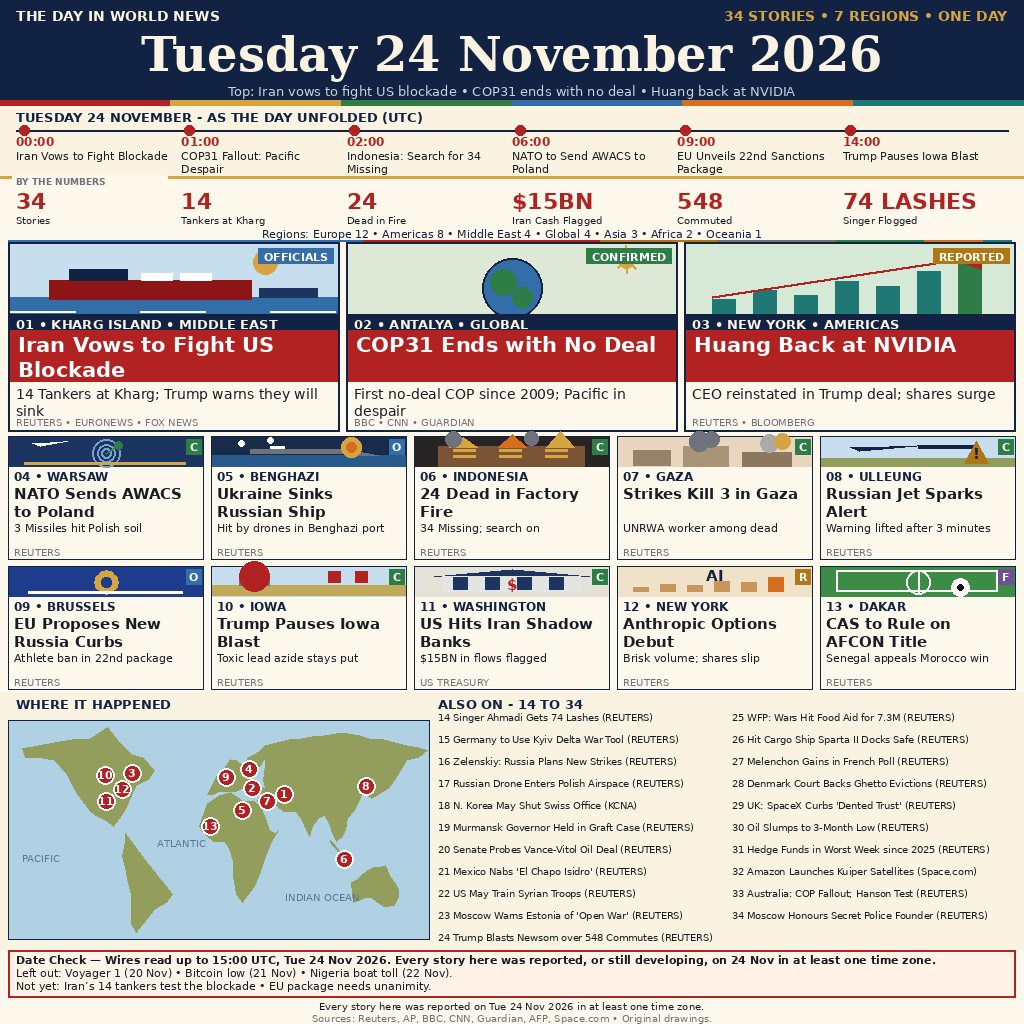
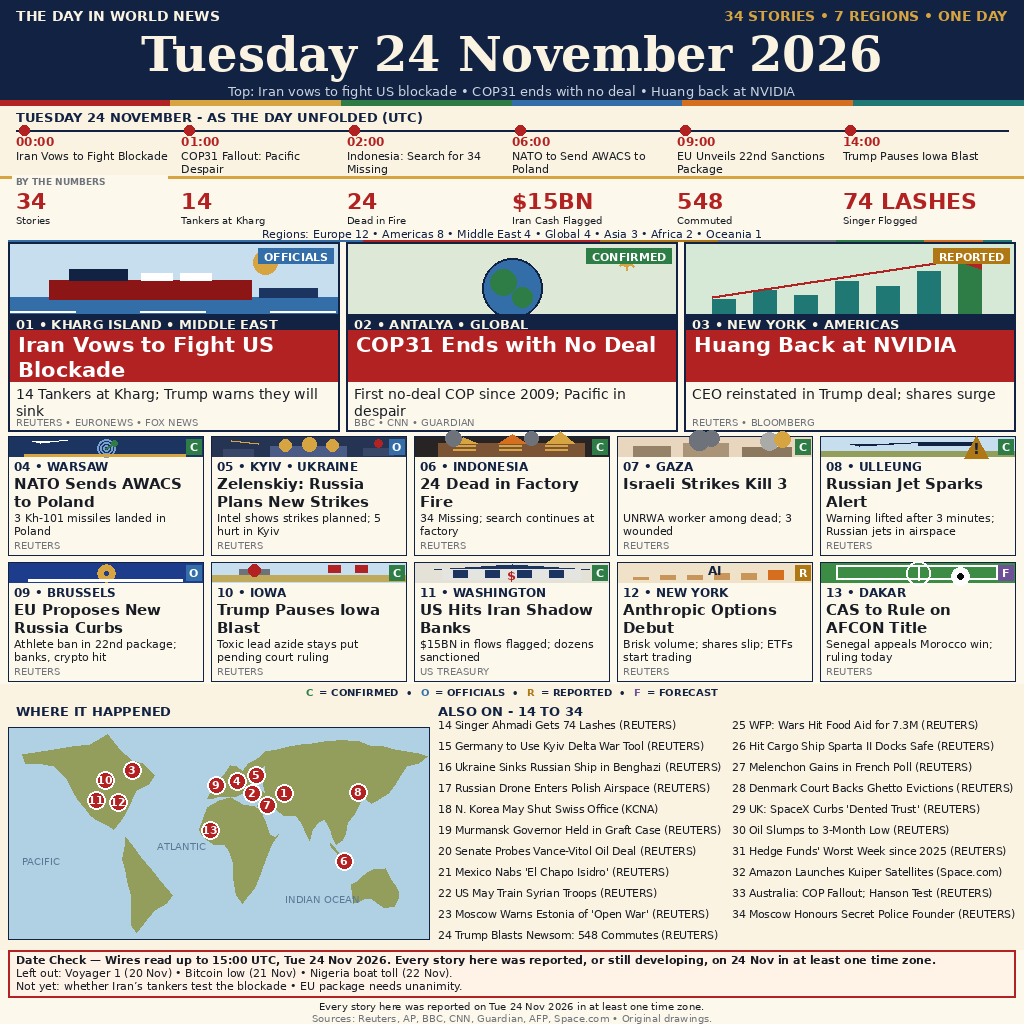
v3.2: veracity legend, swap panel 05 to Zelenskiy/Kyiv, pin fixes, deck rewords, bigger small-panel text

diff --git a/draw.py b/draw.py
@@ -55,7 +55,7 @@ ACRONYMS = {
     "AFP", "REUTERS", "US", "UK", "UN", "UNRWA", "CEO", "COP", "AI", "II",
     "NVIDIA", "CAS",
 }
-SPECIAL = {"SPACEX": "SpaceX", "SPACE.COM": "Space.com"}
+SPECIAL = {"SPACEX": "SpaceX", "SPACE.COM": "Space.com", "ETFS": "ETFs"}
 # Small words kept lowercase in title case (unless first/last word).
 SMALL_WORDS = {
     "a", "an", "the", "to", "in", "on", "at", "of", "for", "with", "by",
@@ -64,6 +64,7 @@ SMALL_WORDS = {
 # Proper nouns that stay capitalised in sentence-case decks.
 PROPER = {
     "KHARG", "TRUMP", "PACIFIC", "POLISH", "BENGHAZI", "SENEGAL", "MOROCCO",
+    "KYIV", "POLAND", "RUSSIAN",
 }
 
 
@@ -292,12 +293,12 @@ def scene_climate(cv, x, y, w, h):
     cv.circle(cx - int(r * 0.3), cy - int(r * 0.2), int(r * 0.45), GREEN)
     cv.circle(cx + int(r * 0.35), cy + int(r * 0.3), int(r * 0.35), GREEN)
     cv.circle(cx, cy, r, NAVY, fill=False)
-    # sun with rays
+    # sun with rays (v3.2: smaller, fits the h=20 art strip)
     sx, sy = x + int(w * 0.85), y + int(h * 0.18)
-    cv.circle(sx, sy, 9, GOLD)
+    cv.circle(sx, sy, 7, GOLD)
     for a in range(0, 360, 45):
-        dx = int(14 * math.cos(math.radians(a)))
-        dy = int(14 * math.sin(math.radians(a)))
+        dx = int(11 * math.cos(math.radians(a)))
+        dy = int(11 * math.sin(math.radians(a)))
         cv.line(sx, sy, sx + dx, sy + dy, GOLD, 2)
     # cracked ground line
     cv.line(x + int(w * 0.1), y + int(h * 0.88), x + int(w * 0.9), y + int(h * 0.88), BROWN, 3)
@@ -322,12 +323,12 @@ def scene_market(cv, x, y, w, h):
 
 def scene_radar(cv, x, y, w, h):
     cv.fill_rect(x, y, w, h, NAVY2)
-    # radar rings (radii fit inside the h=30 strip: cy=y+16, r<=14)
+    # radar rings (v3.2: radii fit the h=20 strip: cy=y+11, r<=9)
     cx, cy = x + int(w * 0.5), y + int(h * 0.55)
-    for r in (14, 9, 5):
+    for r in (9, 6, 3):
         cv.circle(cx, cy, r, (120, 160, 210), fill=False)
-    cv.line(cx, cy, cx + 12, cy - 8, GREEN, 2)
-    cv.circle(cx + 12, cy - 8, 4, GREEN)
+    cv.line(cx, cy, cx + 8, cy - 5, GREEN, 2)
+    cv.circle(cx + 8, cy - 5, 3, GREEN)
     # plane silhouette
     cv.triangle([(x + int(w * 0.12), y + int(h * 0.2)),
                  (x + int(w * 0.30), y + int(h * 0.16)),
@@ -344,10 +345,10 @@ def scene_ship(cv, x, y, w, h):
                  (x + int(w * 0.7), y + int(h * 0.60)),
                  (x + int(w * 0.86), y + int(h * 0.60))], GREY)
     cv.fill_rect(x + int(w * 0.3), y + int(h * 0.32), int(w * 0.08), int(h * 0.12), WHITE)
-    # explosion star
+    # explosion star (v3.2: smaller, fits the h=20 strip)
     ex, ey = x + int(w * 0.72), y + int(h * 0.36)
-    cv.circle(ex, ey, 10, GOLD)
-    cv.circle(ex, ey, 5, ORANGE)
+    cv.circle(ex, ey, 7, GOLD)
+    cv.circle(ex, ey, 4, ORANGE)
     # drones
     cv.circle(x + int(w * 0.15), y + int(h * 0.22), 3, WHITE)
     cv.circle(x + int(w * 0.3), y + int(h * 0.12), 3, WHITE)
@@ -414,9 +415,9 @@ def scene_eu(cv, x, y, w, h):
 def scene_iowa(cv, x, y, w, h):
     cv.fill_rect(x, y, w, h, SKY)
     cv.fill_rect(x, y + int(h * 0.62), w, int(h * 0.38), (190, 170, 90))
-    # silo
+    # silo (v3.2: dome radius scaled to the h=20 strip, stays inside)
     cv.fill_rect(x + int(w * 0.14), y + int(h * 0.3), int(w * 0.16), int(h * 0.34), GREY)
-    cv.circle(x + int(w * 0.22), y + int(h * 0.3), int(w * 0.08), RED)
+    cv.circle(x + int(w * 0.22), y + int(h * 0.35), int(h * 0.30), RED)
     # pause sign
     cv.fill_rect(x + int(w * 0.6), y + int(h * 0.14), int(w * 0.07), int(h * 0.4), RED)
     cv.fill_rect(x + int(w * 0.74), y + int(h * 0.14), int(w * 0.07), int(h * 0.4), RED)
@@ -432,7 +433,7 @@ def scene_bank(cv, x, y, w, h):
     for i in range(4):
         cv.fill_rect(x + int(w * 0.2) + i * int(w * 0.17), y + int(h * 0.36),
                      int(w * 0.08), int(h * 0.44), NAVY2)
-    draw_text_c(cv, x + w / 2, y + int(h * 0.62), "$", F(SANS_B, 15), RED)
+    draw_text_c(cv, x + w / 2, y + int(h * 0.62), "$", F(SANS_B, 13), RED)
 
 
 def scene_anthropic(cv, x, y, w, h):
@@ -444,7 +445,7 @@ def scene_anthropic(cv, x, y, w, h):
         bh = int(h * 0.65 * v)
         cv.fill_rect(x + int(w * 0.08) + i * bw, base - bh, int(bw * 0.62), bh,
                      ORANGE if i == len(vals) - 1 else (200, 150, 90))
-    draw_text_c(cv, x + w / 2, y + int(h * 0.30), "AI", F(SANS_B, 15), NAVY)
+    draw_text_c(cv, x + w / 2, y + int(h * 0.38), "AI", F(SANS_B, 12), NAVY)
 
 
 def scene_football(cv, x, y, w, h):
@@ -458,12 +459,25 @@ def scene_football(cv, x, y, w, h):
     cv.circle(x + int(w * 0.72), y + int(h * 0.68), 3, BLACK)
 
 
+def scene_kyiv(cv, x, y, w, h):
+    # Kyiv at dusk: golden-domed church + skyline, alert light (v3.2).
+    cv.fill_rect(x, y, w, h, (38, 52, 84))
+    cv.fill_rect(x + int(w * 0.06), y + int(h * 0.60), int(w * 0.16), int(h * 0.40), (56, 70, 104))
+    cv.fill_rect(x + int(w * 0.78), y + int(h * 0.55), int(w * 0.16), int(h * 0.40), (56, 70, 104))
+    cv.fill_rect(x + int(w * 0.30), y + int(h * 0.45), int(w * 0.40), int(h * 0.55), (74, 92, 134))
+    cv.circle(x + int(w * 0.38), y + int(h * 0.44), 6, GOLD)
+    cv.circle(x + int(w * 0.50), y + int(h * 0.38), 7, GOLD)
+    cv.circle(x + int(w * 0.62), y + int(h * 0.44), 6, GOLD)
+    cv.circle(x + int(w * 0.86), y + int(h * 0.30), 4, RED)
+    cv.line(x + int(w * 0.10), y + int(h * 0.18), x + int(w * 0.24), y + int(h * 0.30), GOLD, 2)
+
+
 SCENES = {
     'tanker': scene_tanker, 'climate': scene_climate, 'market': scene_market,
     'radar': scene_radar, 'ship': scene_ship, 'fire': scene_fire,
     'gaza': scene_gaza, 'plane': scene_plane, 'eu': scene_eu,
     'iowa': scene_iowa, 'bank': scene_bank, 'anthropic': scene_anthropic,
-    'football': scene_football,
+    'football': scene_football, 'kyiv': scene_kyiv,
 }
 
 # ---- world map (same continents and pins as v2; all pins on land) ----
@@ -483,7 +497,8 @@ CONTINENTS = {
             (12, -18), (12, -8), (9, 0), (5, 5), (-5, 5), (-10, 8), (-15, 12)],
     'EUR': [(-10, 36), (-5, 44), (-2, 48), (0, 50), (5, 53), (8, 57), (10, 59),
             (15, 58), (20, 55), (25, 60), (30, 62), (35, 65), (40, 68),
-            (45, 68), (40, 60), (35, 55), (30, 50), (25, 45), (20, 40),
+            (45, 68), (40, 60), (35, 55), (38, 52), (40, 50), (30, 50),
+            (25, 45), (20, 40),
             (15, 38), (10, 38), (5, 38), (0, 38), (-5, 36)],
     'ASIA': [(40, 68), (50, 70), (60, 72), (70, 73), (80, 74), (90, 75),
              (100, 76), (110, 76), (120, 75), (130, 72), (140, 72), (150, 70),
@@ -508,22 +523,24 @@ CONTINENTS = {
 }
 
 # (number, lon, lat, dx, dy) - dx/dy manual decluster offsets in px.
-# v2: every pin centre on rendered land (verified point-in-polygon +
-# pixel ring); pins 3/12 both New York, declustered; pin 12 moved
-# from San Francisco to New York (its story's city).
+# v3.2: pin 5 moved Benghazi -> Kyiv (panel 05 swap); pin 8 moved west
+# onto mainland; pins 3/12 declustered further; pin 1 nudged north so
+# pins 1-7 clear 18px; every pin centre on rendered land (point-in-
+# polygon + pixel check).
 PINS = [
-    (1, 51.4, 35.7, 5, 0),      # Tehran
+    (1, 51.4, 35.7, 5, -6),     # Tehran
     (2, 30.7, 36.9, -2, -4),    # Antalya
-    (3, -74.0, 40.7, 0, -14),   # New York
-    (4, 21.0, 52.2, 6, 0),      # Warsaw
-    (5, 20.1, 32.1, 0, 10),     # Benghazi
+    (3, -74.0, 40.7, 0, -22),   # New York (declustered north, Canada)
+    (4, 21.0, 52.2, -6, 6),     # Warsaw (declustered SW, C. Europe)
+    (5, 30.5, 50.45, 2, -2),    # Kyiv (v3.2: was Benghazi; EUR polygon
+                                 # extended east so Kyiv is on land)
     (6, 106.8, -6.2, 0, 1),     # Jakarta (on new Java island polygon)
     (7, 34.5, 31.5, 8, 0),      # Gaza
-    (8, 130.9, 37.5, -6, -6),   # Ulleung
-    (9, 4.35, 50.85, 2, 6),     # Brussels
+    (8, 130.9, 37.5, -14, -4),  # Ulleung (v3.2: west onto mainland)
+    (9, 4.35, 50.85, -8, 8),    # Brussels (declustered SW, France)
     (10, -93.1, 41.9, -4, -10), # Iowa
-    (11, -77.0, 38.9, -22, 12), # Washington
-    (12, -74.0, 40.7, -10, 2),  # New York (Anthropic)
+    (11, -77.0, 38.9, -32, 6),  # Washington (declustered W, New Mexico)
+    (12, -74.0, 40.7, -14, 10), # New York (Anthropic; SW, Alabama)
     (13, -17.4, 14.7, 12, 0),   # Dakar
 ]
 
@@ -552,40 +569,40 @@ HEROES = [
 SMALL = [
     dict(num='04', city='WARSAW', scene='radar',
          headline='NATO SENDS AWACS TO POLAND',
-         deck='3 MISSILES HIT POLISH SOIL', source='REUTERS', tag='C'),
-    dict(num='05', city='BENGHAZI', scene='ship',
-         headline='UKRAINE SINKS RUSSIAN SHIP',
-         deck='HIT BY DRONES IN BENGHAZI PORT', source='REUTERS', tag='O'),
+         deck='3 KH-101 MISSILES LANDED IN POLAND', source='REUTERS', tag='C'),
+    dict(num='05', city='KYIV \u2022 UKRAINE', scene='kyiv',
+         headline='ZELENSKIY: RUSSIA PLANS NEW STRIKES',
+         deck='INTEL SHOWS STRIKES PLANNED; 5 HURT IN KYIV', source='REUTERS', tag='O'),
     dict(num='06', city='INDONESIA', scene='fire',
          headline='24 DEAD IN FACTORY FIRE',
-         deck='34 MISSING; SEARCH ON', source='REUTERS', tag='C'),
+         deck='34 MISSING; SEARCH CONTINUES AT FACTORY', source='REUTERS', tag='C'),
     dict(num='07', city='GAZA', scene='gaza',
-         headline='STRIKES KILL 3 IN GAZA',
-         deck='UNRWA WORKER AMONG DEAD', source='REUTERS', tag='C'),
+         headline='ISRAELI STRIKES KILL 3',
+         deck='UNRWA WORKER AMONG DEAD; 3 WOUNDED', source='REUTERS', tag='C'),
     dict(num='08', city='ULLEUNG', scene='plane',
          headline='RUSSIAN JET SPARKS ALERT',
-         deck='WARNING LIFTED AFTER 3 MINUTES', source='REUTERS', tag='C'),
+         deck='WARNING LIFTED AFTER 3 MINUTES; RUSSIAN JETS IN AIRSPACE', source='REUTERS', tag='C'),
     dict(num='09', city='BRUSSELS', scene='eu',
          headline='EU PROPOSES NEW RUSSIA CURBS',
-         deck='ATHLETE BAN IN 22ND PACKAGE', source='REUTERS', tag='O'),
+         deck='ATHLETE BAN IN 22ND PACKAGE; BANKS, CRYPTO HIT', source='REUTERS', tag='O'),
     dict(num='10', city='IOWA', scene='iowa',
          headline='TRUMP PAUSES IOWA BLAST',
-         deck='TOXIC LEAD AZIDE STAYS PUT', source='REUTERS', tag='C'),
+         deck='TOXIC LEAD AZIDE STAYS PUT PENDING COURT RULING', source='REUTERS', tag='C'),
     dict(num='11', city='WASHINGTON', scene='bank',
          headline='US HITS IRAN SHADOW BANKS',
-         deck='$15BN IN FLOWS FLAGGED', source='US TREASURY', tag='C'),
+         deck='$15BN IN FLOWS FLAGGED; DOZENS SANCTIONED', source='US TREASURY', tag='C'),
     dict(num='12', city='NEW YORK', scene='anthropic',
          headline='ANTHROPIC OPTIONS DEBUT',
-         deck='BRISK VOLUME; SHARES SLIP', source='REUTERS', tag='R'),
+         deck='BRISK VOLUME; SHARES SLIP; ETFS START TRADING', source='REUTERS', tag='R'),
     dict(num='13', city='DAKAR', scene='football',
          headline='CAS TO RULE ON AFCON TITLE',
-         deck='SENEGAL APPEALS MOROCCO WIN', source='REUTERS', tag='F'),
+         deck='SENEGAL APPEALS MOROCCO WIN; RULING TODAY', source='REUTERS', tag='F'),
 ]
 
 ALSO_ON = [
     "SINGER AHMADI GETS 74 LASHES (REUTERS)",
     "GERMANY TO USE KYIV DELTA WAR TOOL (REUTERS)",
-    "ZELENSKIY: RUSSIA PLANS NEW STRIKES (REUTERS)",
+    "UKRAINE SINKS RUSSIAN SHIP IN BENGHAZI (REUTERS)",
     "RUSSIAN DRONE ENTERS POLISH AIRSPACE (REUTERS)",
     "N. KOREA MAY SHUT SWISS OFFICE (KCNA)",
     "MURMANSK GOVERNOR HELD IN GRAFT CASE (REUTERS)",
@@ -593,14 +610,14 @@ ALSO_ON = [
     "MEXICO NABS 'EL CHAPO ISIDRO' (REUTERS)",
     "US MAY TRAIN SYRIAN TROOPS (REUTERS)",
     "MOSCOW WARNS ESTONIA OF 'OPEN WAR' (REUTERS)",
-    "TRUMP BLASTS NEWSOM OVER 548 COMMUTES (REUTERS)",
+    "TRUMP BLASTS NEWSOM: 548 COMMUTES (REUTERS)",
     "WFP: WARS HIT FOOD AID FOR 7.3M (REUTERS)",
     "HIT CARGO SHIP SPARTA II DOCKS SAFE (REUTERS)",
     "MELENCHON GAINS IN FRENCH POLL (REUTERS)",
     "DENMARK COURT BACKS GHETTO EVICTIONS (REUTERS)",
     "UK: SPACEX CURBS 'DENTED TRUST' (REUTERS)",
     "OIL SLUMPS TO 3-MONTH LOW (REUTERS)",
-    "HEDGE FUNDS IN WORST WEEK SINCE 2025 (REUTERS)",
+    "HEDGE FUNDS' WORST WEEK SINCE 2025 (REUTERS)",
     "AMAZON LAUNCHES KUIPER SATELLITES (SPACE.COM)",
     "AUSTRALIA: COP FALLOUT; HANSON TEST (REUTERS)",
     "MOSCOW HONOURS SECRET POLICE FOUNDER (REUTERS)",
@@ -722,35 +739,46 @@ def build():
         # source (y+174: ink bottom 425, border rows 430-431 -> 4px margin)
         draw_text(cv, x + 8, y + 174, hero['source'], F(SANS, 10), GREY)
 
-    # ---- 10 small panels, 2 rows of 5 (y 436 / 566, h 124) ----
+    # ---- 10 small panels, 2 rows of 5 (y 436 / 562, h 120; v3.2: art
+    # 30->20, decks extended to 2 lines, legend fits below row 2) ----
     pw, gap = 196, 7
     for row in range(2):
         for col_i in range(5):
             p = SMALL[row * 5 + col_i]
             x = 8 + col_i * (pw + gap)
-            y = 436 + row * 130
-            cv.rect(x, y, pw, 124, NAVY, 1)
-            SCENES[p['scene']](cv, x + 1, y + 1, pw - 2, 30)
+            y = 436 + row * 126
+            cv.rect(x, y, pw, 120, NAVY, 1)
+            SCENES[p['scene']](cv, x + 1, y + 1, pw - 2, 20)
             draw_chip(cv, x + pw - 18, y + 3, p['tag'])
-            draw_text(cv, x + 6, y + 33, '%s \u2022 %s' % (p['num'], p['city']),
+            draw_text(cv, x + 6, y + 23, '%s \u2022 %s' % (p['num'], p['city']),
                       F(SANS_B, 12), NAVY)
             hlines = wrap_text(title_case(p['headline']), F(SANS_B, 15), pw - 12)
             assert len(hlines) <= 2, ('headline', p['headline'], hlines)
             for j, ln in enumerate(hlines[:2]):
-                draw_text(cv, x + 6, y + 49 + j * 18, ln, F(SANS_B, 15), INK)
+                draw_text(cv, x + 6, y + 39 + j * 18, ln, F(SANS_B, 15), INK)
             dlines = wrap_text(sentence_case(p['deck']), F(SANS, 11), pw - 12)
             assert len(dlines) <= 2, ('deck', p['deck'], dlines)
             for j, ln in enumerate(dlines[:2]):
-                draw_text(cv, x + 6, y + 85 + j * 13, ln, F(SANS, 11), INK)
-            # source (y+110: ink bottom 555, border row 559 -> 3px margin)
-            draw_text(cv, x + 6, y + 110, p['source'], F(SANS, 10), GREY)
+                draw_text(cv, x + 6, y + 75 + j * 13, ln, F(SANS, 11), INK)
+            # source (y+103: ink bottom ~116, border row 119 -> 3px margin)
+            draw_text(cv, x + 6, y + 103, p['source'], F(SANS, 10), GREY)
 
-    # ---- map + ALSO ON 692..950 ----
-    cv.fill_rect(0, 692, W, 258, CREAM)
-    draw_text(cv, 16, 696, 'WHERE IT HAPPENED', F(SANS_B, 13), NAVY)
-    draw_text(cv, 438, 696, 'ALSO ON - 14 TO 34', F(SANS_B, 13), NAVY)
+    # ---- veracity legend 686 + map + ALSO ON 684..950 ----
+    cv.fill_rect(0, 684, W, 266, CREAM)
+    leg = [("C", GREEN), (" = CONFIRMED  \u2022  ", NAVY),
+           ("O", BLUE), (" = OFFICIALS  \u2022  ", NAVY),
+           ("R", AMBER), (" = REPORTED  \u2022  ", NAVY),
+           ("F", PURPLE), (" = FORECAST", NAVY)]
+    lf = F(SANS_B, 10)
+    leg_w = sum(text_w(t, lf) for t, _ in leg) + 2 * (len(leg) - 1)
+    lx = (W - leg_w) / 2
+    for t, col in leg:
+        draw_text(cv, lx, 686, t, lf, col)
+        lx += text_w(t, lf) + 2
+    draw_text(cv, 16, 703, 'WHERE IT HAPPENED', F(SANS_B, 13), NAVY)
+    draw_text(cv, 438, 703, 'ALSO ON - 14 TO 34', F(SANS_B, 13), NAVY)
     # map box
-    mx0, my0, mx1, my1 = 8, 720, 430, 940
+    mx0, my0, mx1, my1 = 8, 727, 430, 940
     cv.fill_rect(mx0, my0, mx1 - mx0, my1 - my0, SEA)
     cv.rect(mx0, my0, mx1 - mx0, my1 - my0, NAVY, 1)
 
@@ -776,7 +804,7 @@ def build():
         cv.circle(int(px), int(py), 9, WHITE, fill=False)
         draw_text_c(cv, int(px), int(py), str(num), F(SANS_B, 11), WHITE)
 
-    # ALSO ON two columns x 11 rows, one line per item
+    # ALSO ON two columns x 11 rows, one line per item (v3.2: 10.5pt)
     col_xs = [438, 732]
     col_ws = [284, 284]
     for idx, item in enumerate(ALSO_ON):
@@ -784,11 +812,11 @@ def build():
         ci = idx // 11
         ri = idx % 11
         cx = col_xs[ci]
-        cy = 712 + ri * 22
+        cy = 719 + ri * 21
         full = '%d %s' % (num, title_case(item))
-        lines = wrap_text(full, F(SANS, 9.5), col_ws[ci])
+        lines = wrap_text(full, F(SANS, 10.5), col_ws[ci])
         assert len(lines) == 1, ('also-on', full, lines)
-        draw_text(cv, cx, cy, lines[0], F(SANS, 9.5), INK)
+        draw_text(cv, cx, cy, lines[0], F(SANS, 10.5), INK)
 
     # ---- DATE CHECK 950..998: black text on pale peach, red border ----
     cv.fill_rect(8, 950, W - 16, 48, DC_BG)
@@ -799,7 +827,7 @@ def build():
          'in at least one time zone.', True),
         ('Left out: Voyager 1 (20 Nov) \u2022 Bitcoin low (21 Nov) \u2022 '
          'Nigeria boat toll (22 Nov).', False),
-        ('Not yet: Iran\u2019s 14 tankers test the blockade \u2022 '
+        ('Not yet: whether Iran\u2019s tankers test the blockade \u2022 '
          'EU package needs unanimity.', False),
     ]
     for j, (ln, bold) in enumerate(dc):
